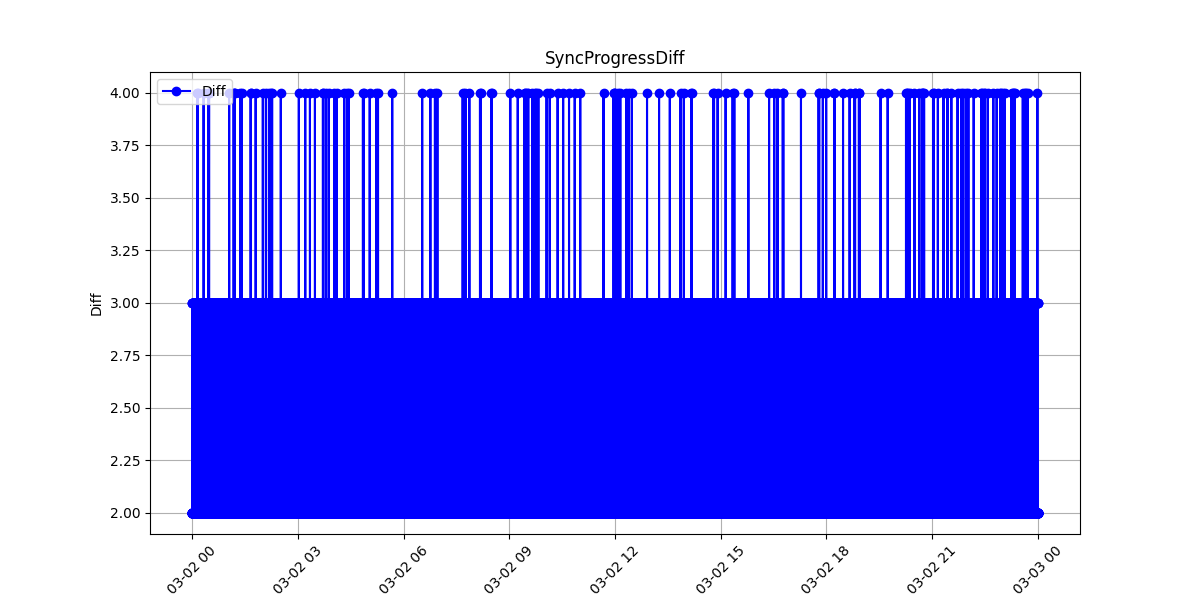
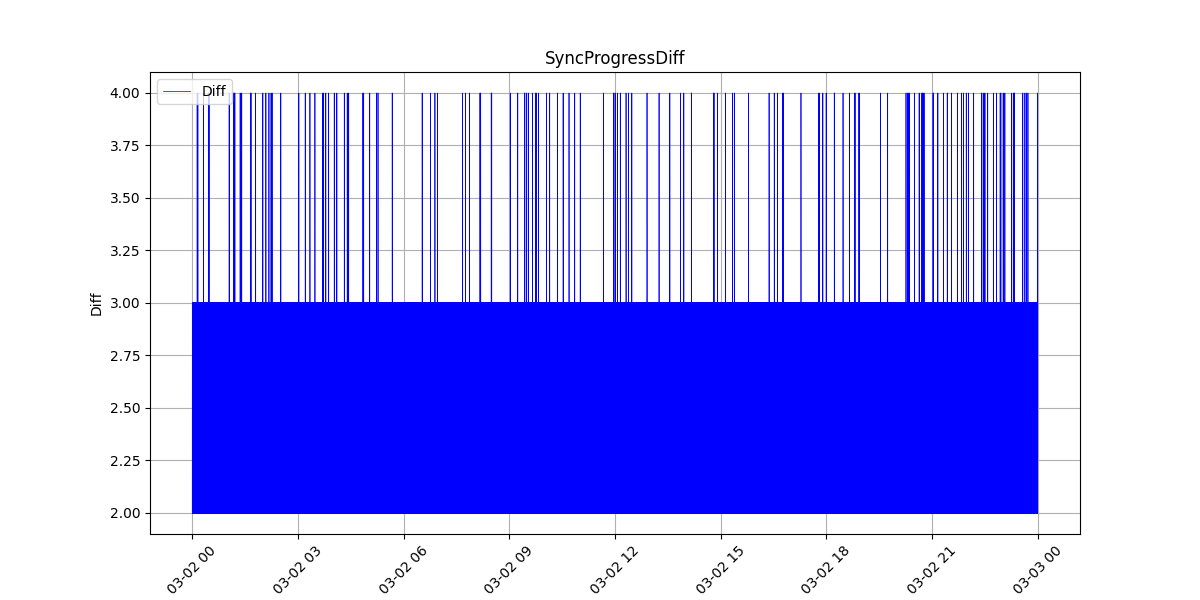
update pngs

Changed region(s): [[0.1233, 0.15, 0.8633, 0.51], [0.1542, 0.84, 0.8942, 0.87]]

diff --git a/charts/draw.py b/charts/draw.py
@@ -37,7 +37,8 @@ def plot(input_csv, chart_name, x_col_index, y_col_index):
 
     # 绘制图表
     plt.figure(figsize=(12, 6))
-    plt.plot(df.iloc[:, x_col_index], df.iloc[:, y_col_index], marker='o', linestyle='-', color='b', label=df.columns[y_col_index])
+    # plt.plot(df.iloc[:, x_col_index], df.iloc[:, y_col_index], marker='o', linestyle='-', color='b', label=df.columns[y_col_index])
+    plt.plot(df.iloc[:, x_col_index], df.iloc[:, y_col_index], linestyle='-', linewidth=0.5, color='b', label=df.columns[y_col_index])
 
     # 设置横轴和纵轴名称
     plt.xlabel(df.columns[x_col_index])
@@ -52,13 +53,13 @@ def plot(input_csv, chart_name, x_col_index, y_col_index):
     plt.show()
 
 # 全天数据
-# plot("./out/SyncProgressDiff.csv","SyncProgressDiff", 0, 3)
-# plot("./out/MemPoolRefreshRate.csv","MemPoolRefreshRate", 0, 3)
-# plot("./out/TxSyncCompleteTimeCost.csv","TxSyncCompleteTimeCost", 1, 3)
-# plot("./out/SyncTaskBacklog.csv","SyncTaskBacklog", 0, 1)
+plot("./out/SyncProgressDiff.csv","SyncProgressDiff", 0, 3)
+plot("./out/MemPoolRefreshRate.csv","MemPoolRefreshRate", 0, 3)
+plot("./out/TxSyncCompleteTimeCost.csv","TxSyncCompleteTimeCost", 1, 3)
+plot("./out/SyncTaskBacklog.csv","SyncTaskBacklog", 0, 1)
 plot("./out/MineWork.csv","MineWork", 0, 1)
 
-# 少量数据
+# # 少量数据
 # plot("./out/short/SyncProgressDiff.csv","SyncProgressDiff_short", 0, 3)
 # plot("./out/short/MemPoolRefreshRate.csv","MemPoolRefreshRate_short", 1, 3)
 # plot("./out/short/TxSyncCompleteTimeCost.csv","TxSyncCompleteTimeCost_short", 1, 3)
